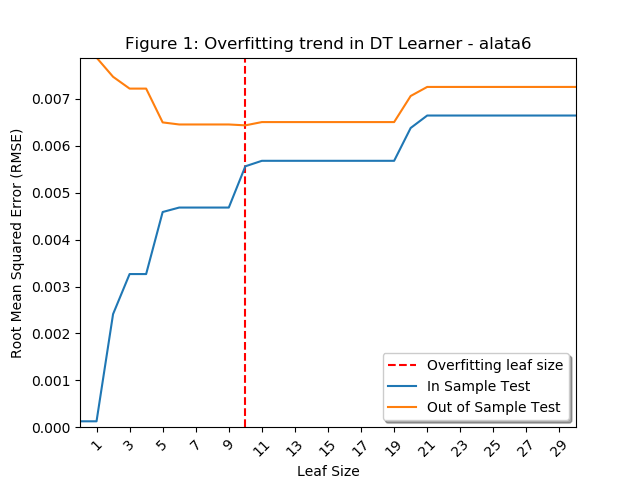
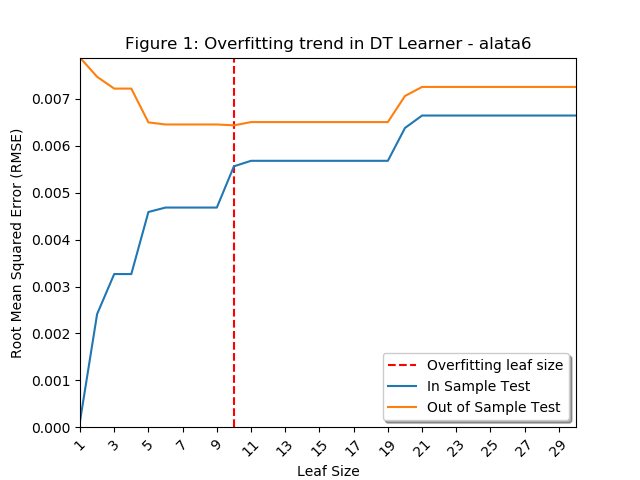
fig leaf start from 1

diff --git a/assess_learners/testlearner.py b/assess_learners/testlearner.py
@@ -268,7 +268,7 @@ if __name__ == "__main__":
     print('exp1_min_rmse_out_sample ', exp1_min_rmse_out_sample, " exp1_max_rmse_in_sample ", exp1_max_rmse_in_sample, " exp1_max_rmse_out_sample ", exp1_max_rmse_out_sample, "exp1_min_rmse_out_leaf_size", exp1_min_rmse_out_leaf_size)
 
     plt.figure(1)
-    plt.axis([0, exp1_max_leaf_size, 0, max(exp1_max_rmse_in_sample, exp1_max_rmse_out_sample)])
+    plt.axis([1, exp1_max_leaf_size, 0, max(exp1_max_rmse_in_sample, exp1_max_rmse_out_sample)])
     plt.axvline(x=exp1_min_rmse_out_leaf_size, color='r', label='Overfitting leaf size', linestyle='dashed')
     plt.xlabel('Leaf Size')
     plt.xticks(ticks=exp1_xticks, rotation=45)
@@ -316,7 +316,7 @@ if __name__ == "__main__":
           exp2_min_rmse_out_leaf_size)
 
     plt.figure(2)
-    plt.axis([0, exp2_max_leaf_size, 0, max(exp2_max_rmse_in_sample, exp2_max_rmse_out_sample, exp1_max_rmse_in_sample, exp1_max_rmse_out_sample)])
+    plt.axis([1, exp2_max_leaf_size, 0, max(exp2_max_rmse_in_sample, exp2_max_rmse_out_sample, exp1_max_rmse_in_sample, exp1_max_rmse_out_sample)])
     plt.axvline(x=exp2_min_rmse_out_leaf_size, color='r', label='BagL - Overfitting leaf size', linestyle='dashed')
     plt.xlabel('Leaf Size')
     plt.xticks(ticks=exp2_xticks, rotation=45)
@@ -373,7 +373,7 @@ if __name__ == "__main__":
     print('exp3_dt_min_rmse_out_sample ', exp3_dt_min_rmse_out_sample, " exp3_dt_max_rmse_in_sample ", exp3_dt_max_rmse_in_sample, " exp3_dt_max_rmse_out_sample ", exp3_dt_max_rmse_out_sample, "exp3_dt_min_rmse_out_leaf_size", exp3_dt_min_rmse_out_leaf_size)
 
     plt.figure(3)
-    plt.axis([0, exp3_max_leaf_size, 0, max(exp3_dt_max_rmse_in_sample, exp3_dt_max_rmse_out_sample, exp3_rt_max_rmse_in_sample, exp3_rt_max_rmse_out_sample)])
+    plt.axis([1, exp3_max_leaf_size, 0, max(exp3_dt_max_rmse_in_sample, exp3_dt_max_rmse_out_sample, exp3_rt_max_rmse_in_sample, exp3_rt_max_rmse_out_sample)])
     plt.axvline(x=exp3_dt_min_rmse_out_leaf_size, color='r', label='DT Overfitting leaf size', linestyle='dashed')
     plt.xlabel('Leaf Size')
     plt.xticks(ticks=exp3_xticks, rotation=45)
